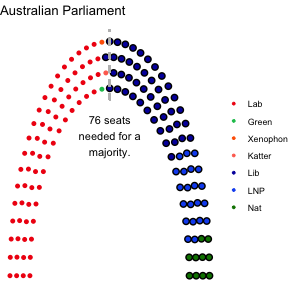
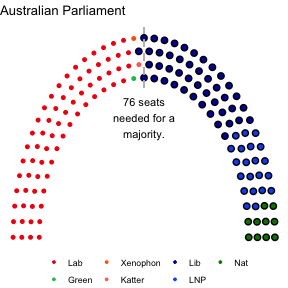
update theme_ggparliament()

diff --git a/README.md b/README.md
@@ -164,6 +164,7 @@ right <- ggplot(uk_17_right, aes(x,
   geom_parliament_seats() + 
   geom_highlight_government(government == 1) + 
   theme_ggparliament(background = TRUE) +
+  theme(legend.position = 'right') + 
   labs(colour = NULL) +
   scale_colour_manual(values = uk_17_right$colour, 
                       limits = uk_17_right$party_short)
@@ -175,6 +176,7 @@ left <- ggplot(uk_17_left, aes(x,
                                type = "opposing_benches")) +
   geom_parliament_seats() + 
   theme_ggparliament(background = TRUE) +
+  theme(legend.position = 'left') + 
   labs(colour = NULL, 
        title = "UK parliament in 2017",
        subtitle="Government encircled in black.") +
@@ -218,6 +220,7 @@ au <-ggplot(australia1, aes(x,
   geom_highlight_government(government == 1) + 
   draw_majoritythreshold(n = 76, label = TRUE, type = 'horseshoe') + 
   theme_ggparliament() +
+  theme(legend.position = 'bottom') + 
   labs(colour = NULL, 
        title = "Australian Parliament") +
   scale_colour_manual(values = australia$colour, 
